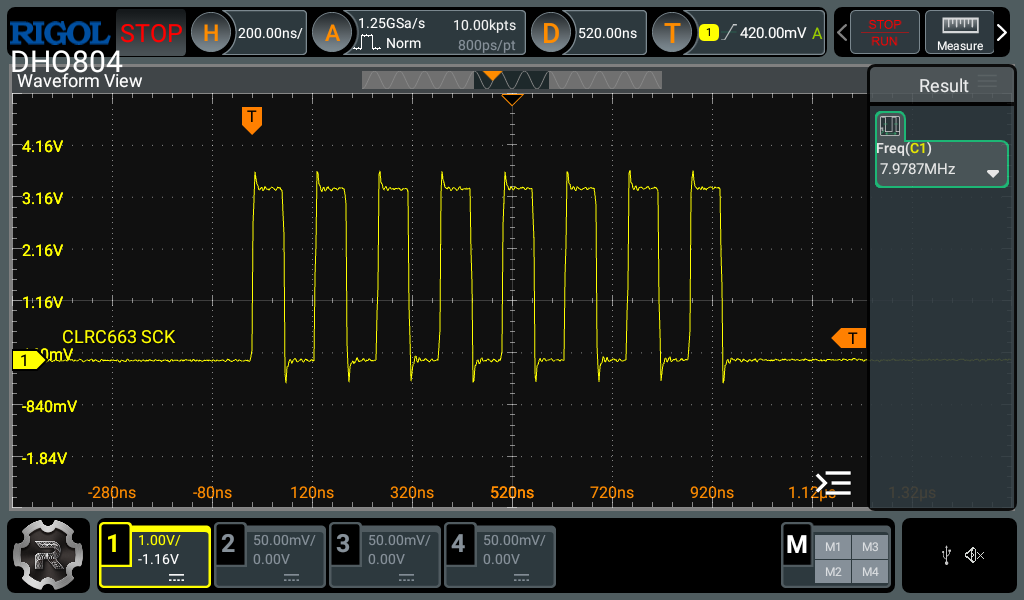
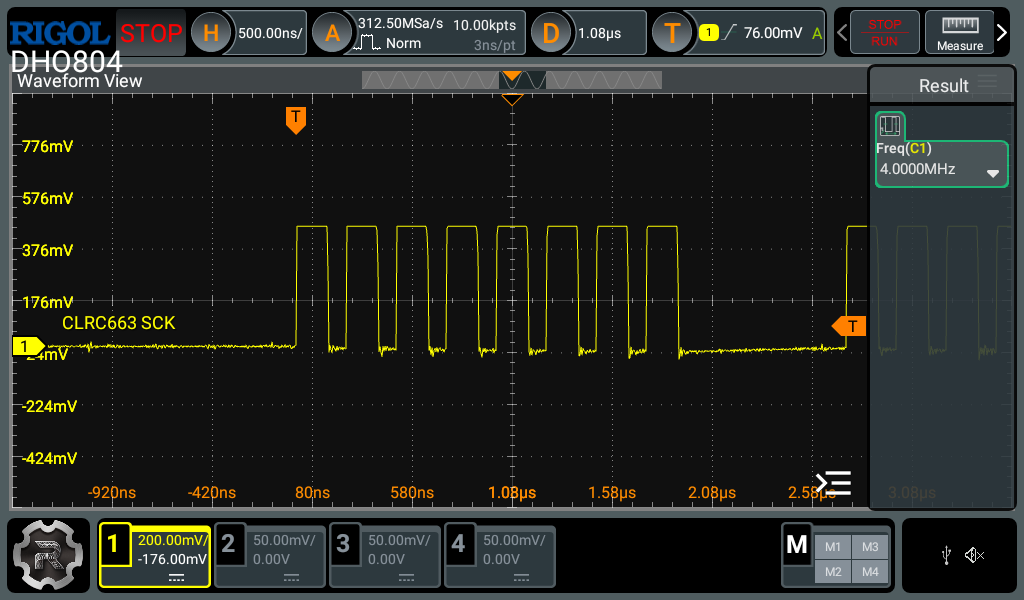
Update SCK picture

diff --git a/fw/doc/clrc663-cfg.md b/fw/doc/clrc663-cfg.md
@@ -23,6 +23,6 @@ issue. Otherwise, the signals are clean and well-defined.
 
 <figure>
 <img src="../assets/clrc663-sck.png">
-<figcaption>Figure #1: CLRC663 SCLK rate (8MHz)</figcaption>
+<figcaption>Figure #1: CLRC663 SCLK rate (4MHz)</figcaption>
 </figure>
 
